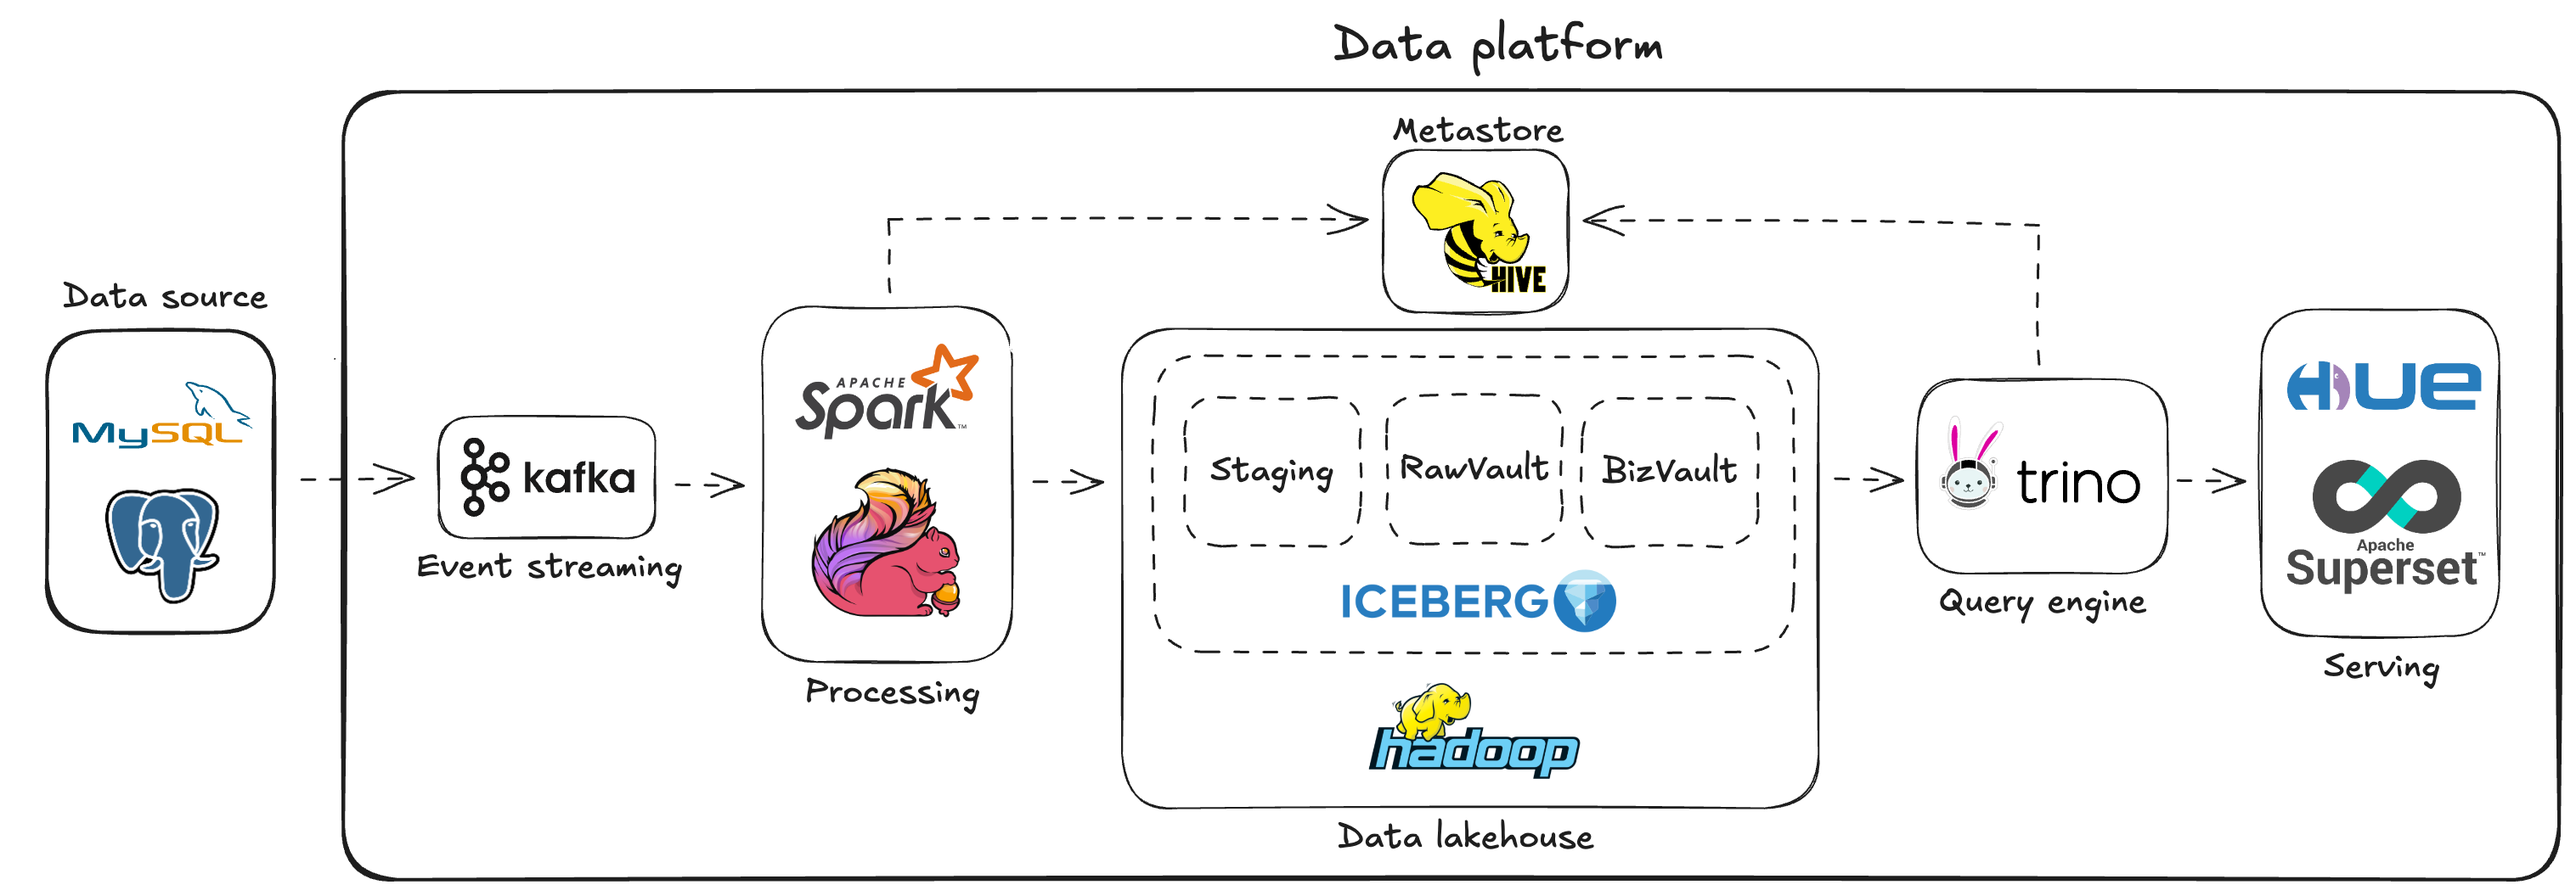
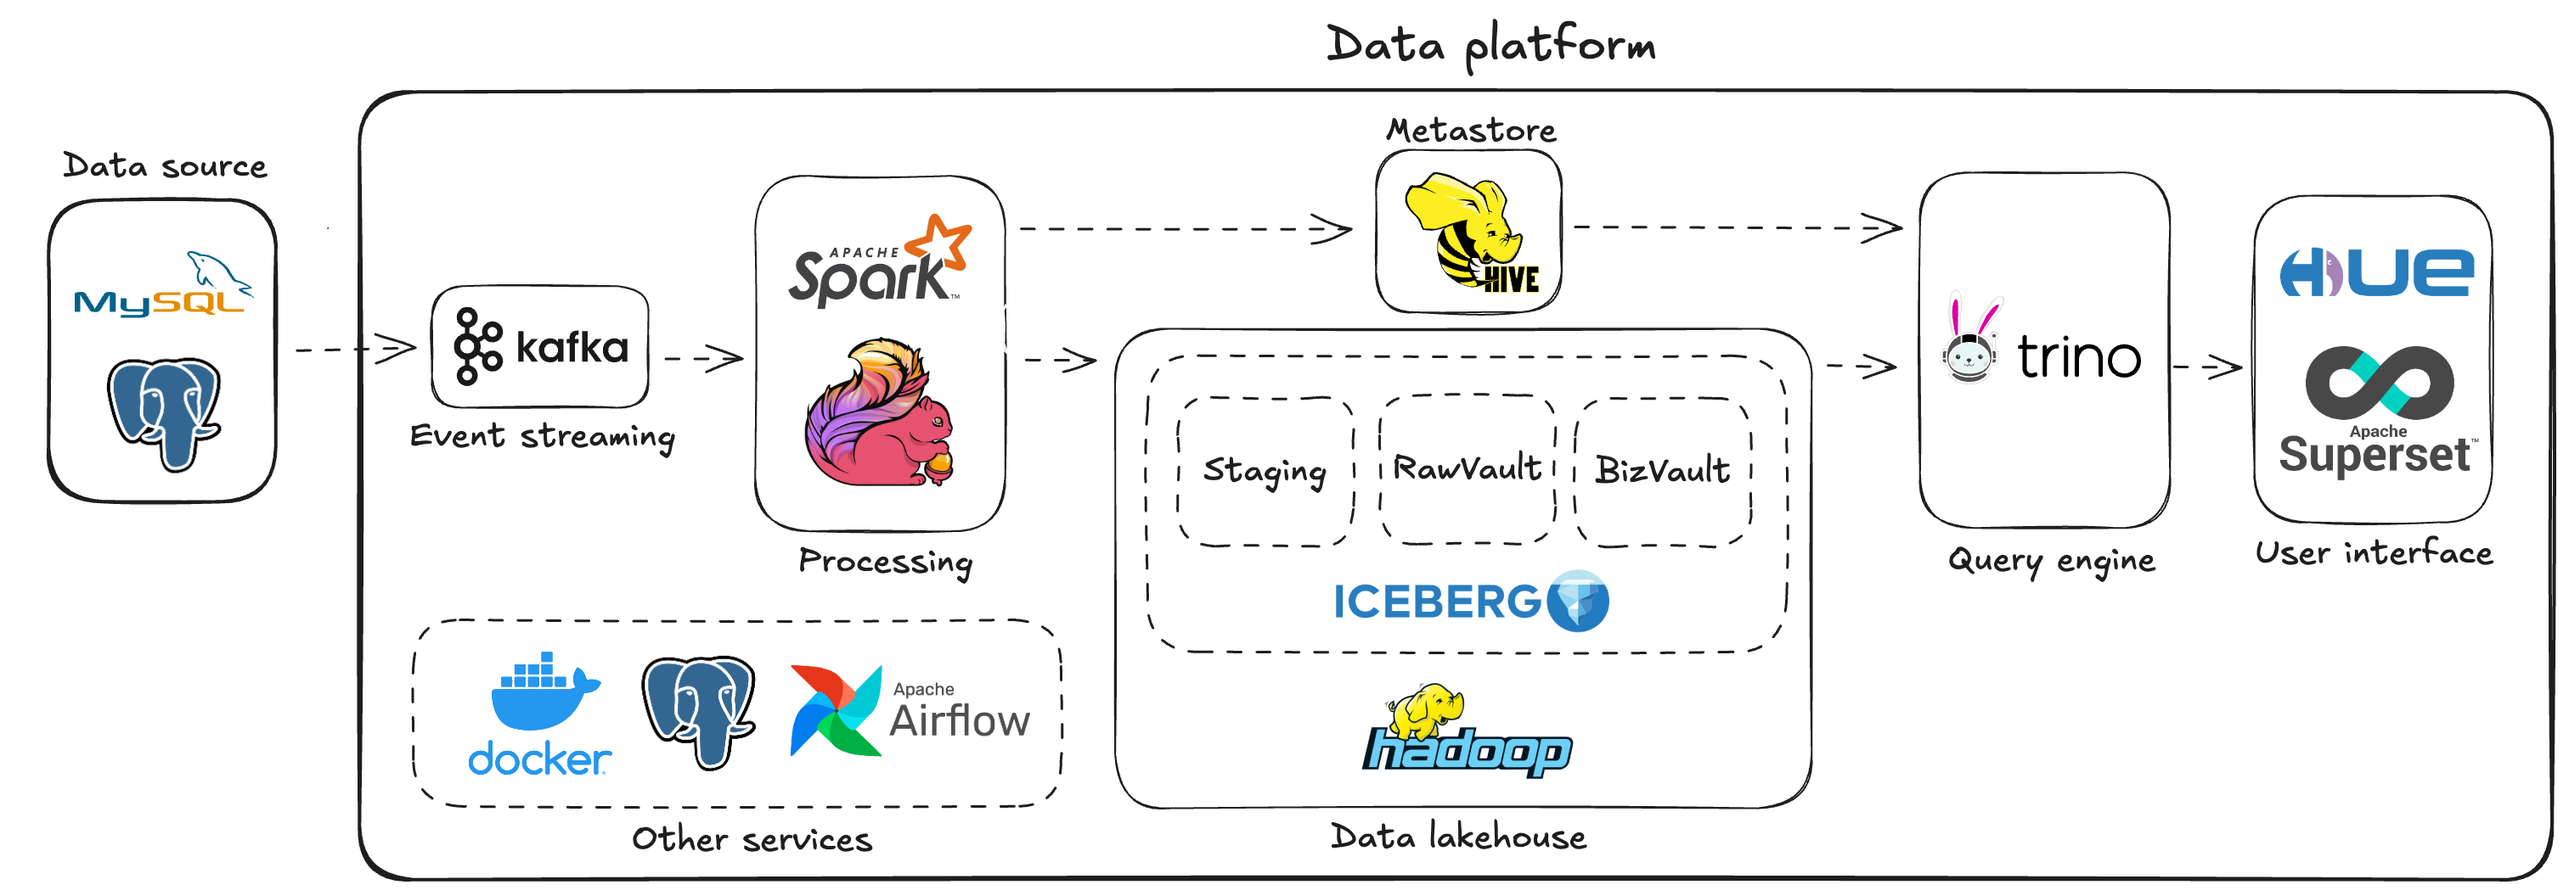
architecture

diff --git a/README.md b/README.md
@@ -24,6 +24,22 @@ These days, data becomes the DNA of every organization including both startups a
   <img src="https://github.com/nitsvutt/lakehouse-platform/blob/main/asset/lakehouse-platform.png" width="100%" title="architecture" alt="architecture">
 </p>
 
+- Data source: your application databases (Example: MySQL, PostgreSQL).
+- Data platform:
+    - Event streaming service: capture data in real-time from your sources (Example: Apache Kafka).
+    - Processing service:
+        - Streaming processing: consume and process data from Kafka topics (Example: Apache Spark, Apache Flink).
+        - Batch processing: perform heavy ETL pipelines (Example; Apache Spark).
+    - Data lakehouse:
+        - Storage: play as a central repository storing your data (Example: Apache Hadoop - HDFS).
+        - Table format: play as an OLAP layer supporting ACID (Example: Apache Iceberg).
+    - Query engine: perform structure queries of users (Example: Trino).
+    - User interface: serve users (Example: Hue, Apache Superset).
+    - Other serivces:
+        - Containerization: develop, ship, and run applications (Example: Docker).
+        - Metadata database: store metadata for other services (Example: PostgreSQL).
+        - Orchestration: author, schedule and monitor workflows (Example: Apache Airflow).
+
 <div id="in-progress"/>
 
 ## 3. In progress
